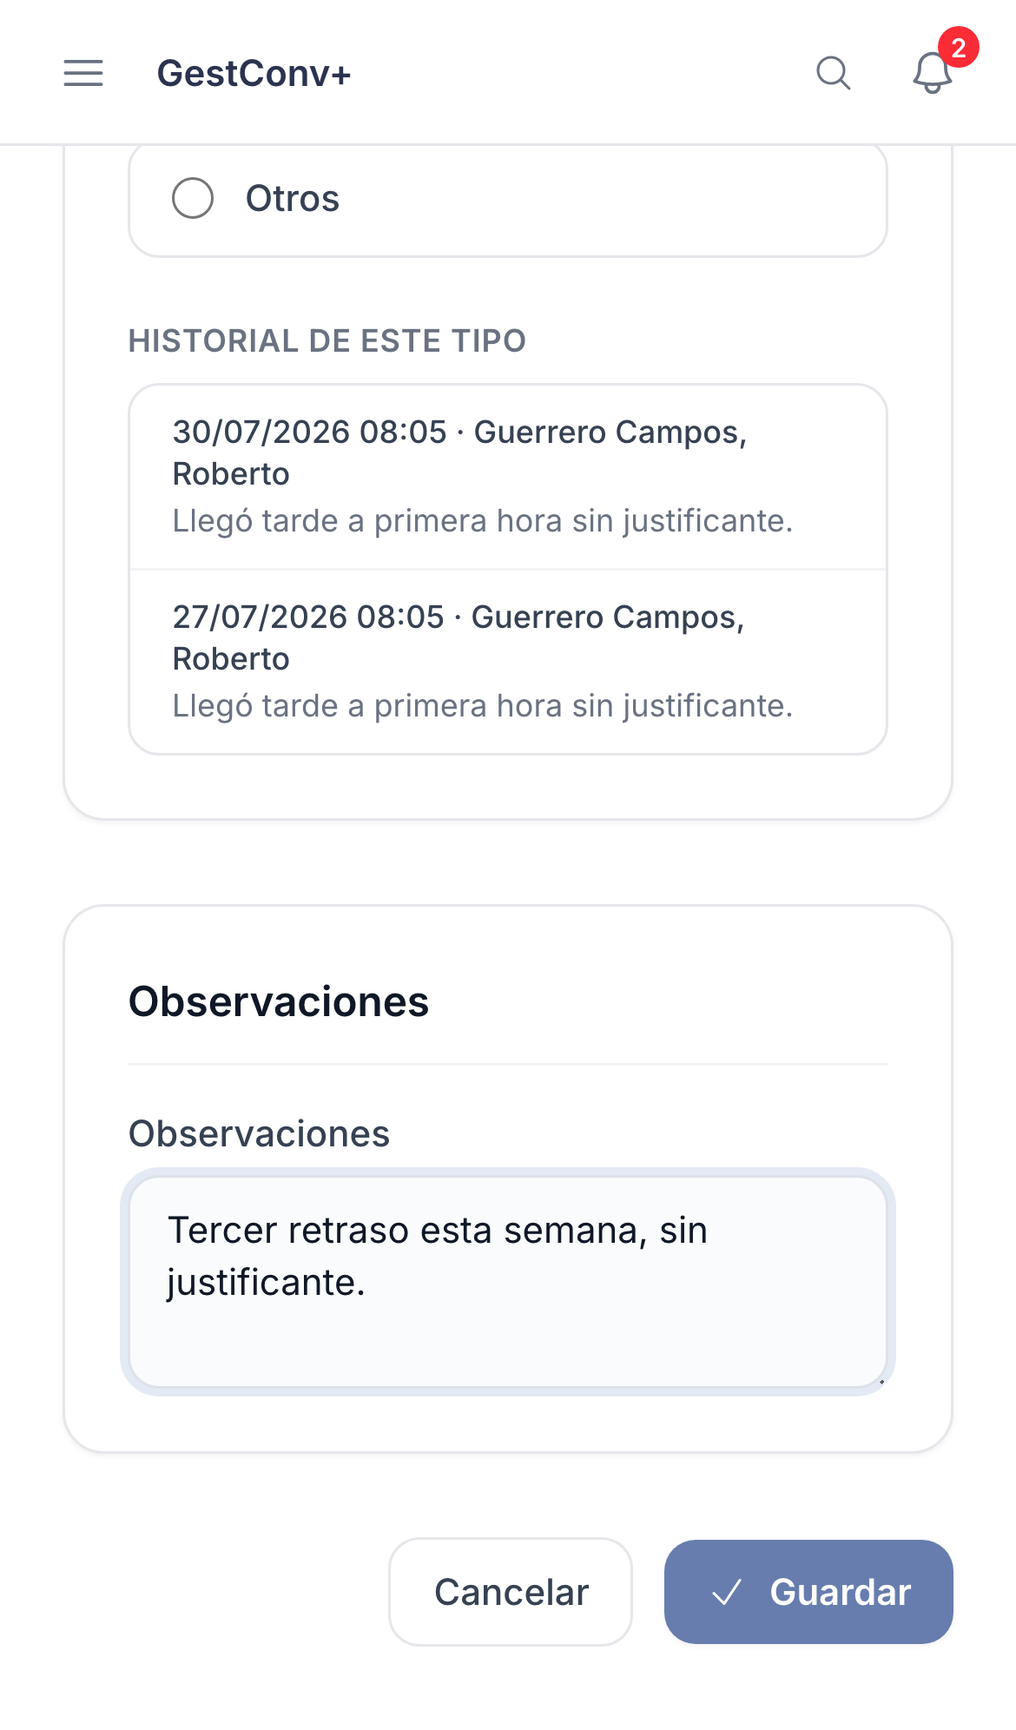
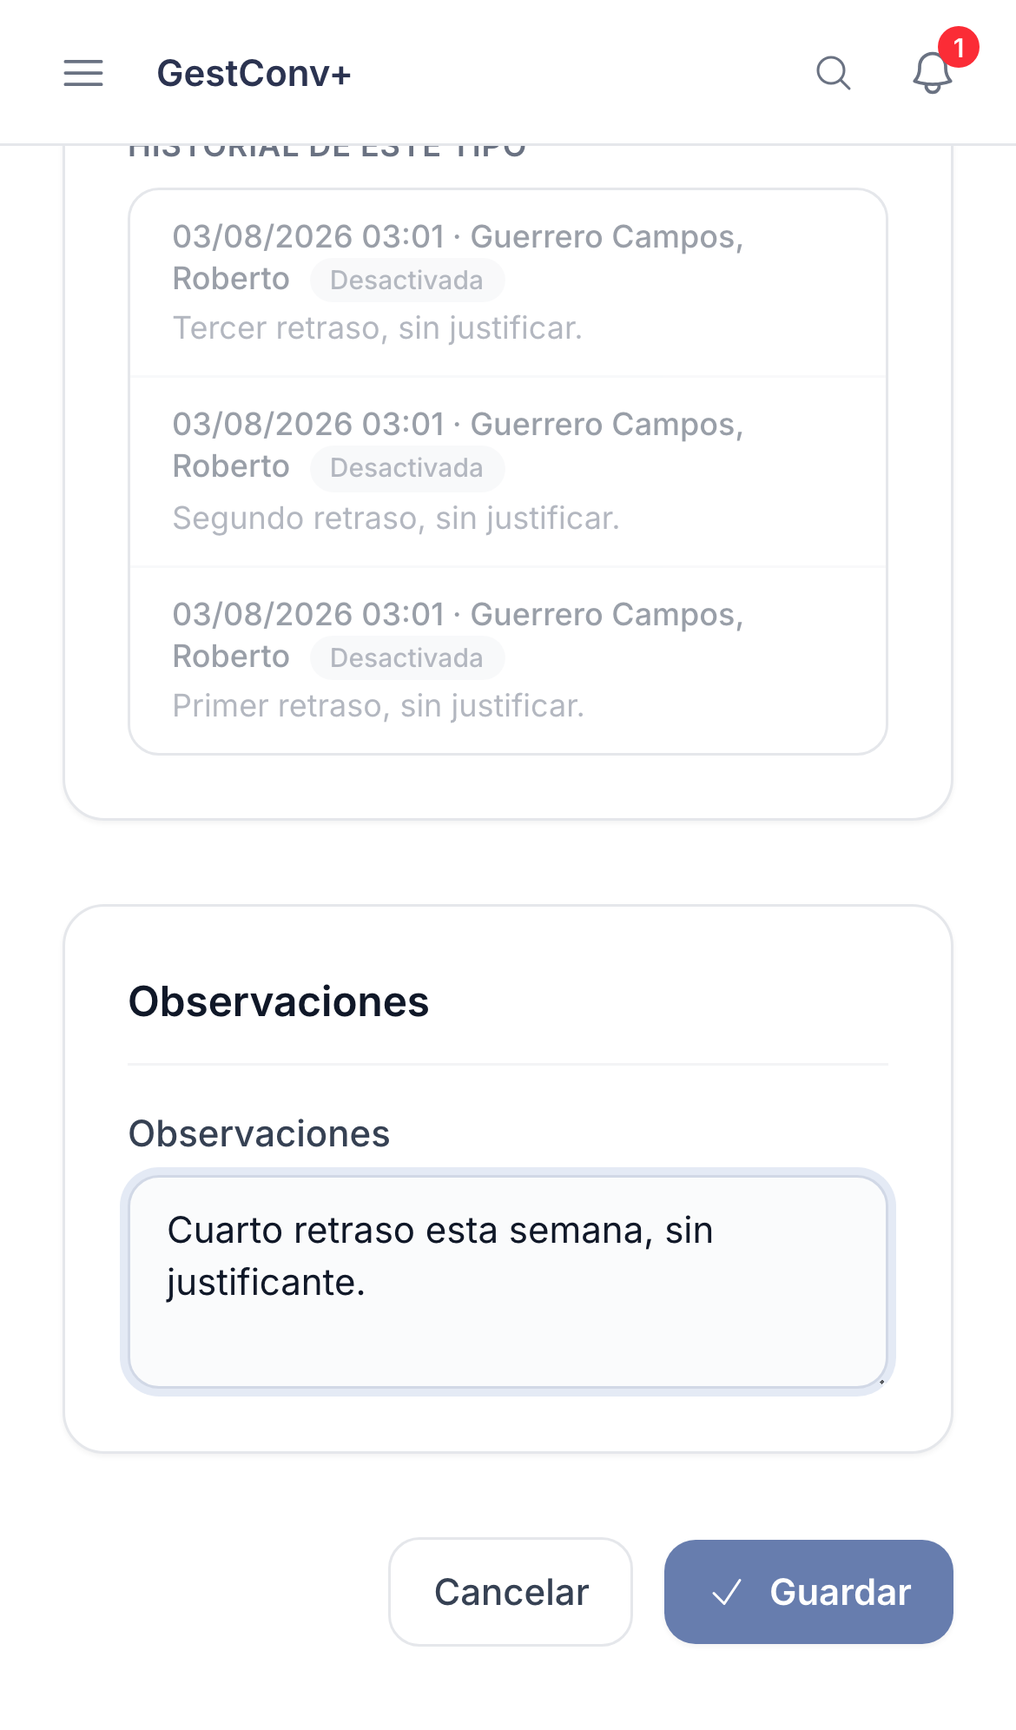
docs(notas): documenta el flujo de registro de parte por umbral y la desactivación de notas
Actualiza el manual (sección Notas, catálogo de tipos, avisos por
correo), la presentación y la ficha rápida "Registrar una nota" con
la terminología desactivada/caducidad, la pestaña "Listado de
estudiantes" y el aviso de notas desactivadas al registrar un parte;
regenera las capturas afectadas y añade las dos nuevas.

diff --git a/docs/manual/03-el-trabajo-diario.md b/docs/manual/03-el-trabajo-diario.md
@@ -40,6 +40,9 @@ Debajo, las tarjetas de estadísticas:
   orientación y tutores/as: cuántas sanciones del curso tienen alguna materia de [tareas de
   sanción](#tareas-de-sancion) sin cumplimentar. Enlaza al listado de sanciones con el filtro
   correspondiente ya aplicado.
+- **Notas que implican parte** — visible para administradores y tutores/as: cuántos estudiantes
+  han alcanzado el umbral de ocurrencias de un tipo de nota activa. Enlaza a la pestaña
+  [Listado de estudiantes](#listado-de-estudiantes) de la sección Notas.
 
 A continuación, las **sanciones en vigor en tus grupos** de esta semana y la próxima, visible para
 quien imparte materia en algún grupo.
@@ -157,9 +160,16 @@ permiso para notificarlo ve también un botón **Notificar** junto a los de edit
 
 La sección **Notas** del menú lateral permite registrar avisos de comportamiento del día a día
 (un retraso, salir al baño, usar el móvil en clase…) sin necesidad de abrir un parte de
-convivencia formal. Cada tipo de nota tiene un umbral de ocurrencias configurable por el centro
-(ver [Tipos de notas diarias](06-administrar-el-centro.md#tipos-de-notas-diarias)); al superarlo,
-la aplicación avisa de que conviene registrar también un parte.
+convivencia formal. Cada tipo de nota tiene un umbral de ocurrencias configurable por el centro y
+una caducidad opcional (ver [Tipos de notas diarias](06-administrar-el-centro.md#tipos-de-notas-diarias)).
+
+!!! note "Quién registra el parte al alcanzar el umbral"
+    Cuando un estudiante alcanza el umbral de un tipo de nota, no es cualquier docente quien debe
+    registrar el parte de convivencia derivado, sino el tutor/a de su grupo o administración. Por
+    eso este aviso no aparece ni en el formulario de alta de una nota ni en la ficha del alumno:
+    se gestiona desde la pestaña **Listado de estudiantes** de esta misma sección (ver más abajo),
+    y opcionalmente por correo electrónico (ver
+    [Avisos por correo](07-administrar-la-plataforma.md#avisos-por-correo)).
 
 ### Registrar una nota nueva
 
@@ -172,15 +182,14 @@ la aplicación avisa de que conviene registrar también un parte.
 3. **Tipo de nota** — elige uno de los tipos activos del centro. Los tipos que, de añadir esta
    nota, alcanzarían el umbral de ocurrencias que dan lugar a parte se muestran resaltados en
    rojo. Al elegir un tipo aparece, sin recargar la página, el historial de ese tipo para el
-   estudiante seleccionado (fecha/hora, docente y observaciones; las notas ya ignoradas se ven
+   estudiante seleccionado (fecha/hora, docente y observaciones; las notas ya desactivadas se ven
    atenuadas).
 
    ![Tipo de nota resaltado en rojo con el historial del estudiante](img/notas/nueva-nota-tipo-historial.png)
 
 4. **Observaciones** — campo de texto libre, opcional.
-5. Pulsa **Guardar**. La pantalla de resumen muestra los datos de la nota y, si con ella se
-   alcanza o se supera el umbral del tipo elegido, un botón destacado para registrar un parte de
-   convivencia para ese mismo estudiante.
+5. Pulsa **Guardar**. La pantalla de resumen muestra los datos de la nota y, si el tipo tiene
+   umbral configurado, cuántas ocurrencias lleva el estudiante sobre el total.
 
 > La fecha y hora de la nota se registran automáticamente en el momento de guardarla, y no se
 > pueden elegir manualmente.
@@ -188,25 +197,50 @@ la aplicación avisa de que conviene registrar también un parte.
 Si accedes como administrador y no impartes clase en el curso académico activo, el campo de
 docente aparece vacío para obligar a elegir a quién corresponde la nota, igual que en los partes.
 
-### Listado, filtros e historial del estudiante
+### Listado de notas
 
-![Listado de notas con una fila ignorada mostrada en gris](img/notas/notas-listado.png)
+![Listado de notas con una fila desactivada mostrada en gris](img/notas/notas-listado.png)
 
-El listado admite búsqueda libre (estudiante, docente u observaciones), filtro por grupo (solo se
-listan los que tienen notas) y por tipo. Cada docente ve, como mínimo, sus propias notas y las de
-los grupos que tutoriza; solo los administradores ven todas. Quien tutoriza algún grupo dispone
-además de los botones **Mis notas** y **De mi tutoría** para acotar la vista.
+La pestaña **Listado de notas** admite búsqueda libre (estudiante, docente u observaciones),
+filtro por grupo (solo se listan los que tienen notas) y por tipo. Cada docente ve, como mínimo,
+sus propias notas y las de los grupos que tutoriza; solo los administradores ven todas. Quien
+tutoriza algún grupo dispone además de los botones **Mis notas** y **De mi tutoría** para acotar
+la vista.
 
 Puedes editar el texto de tus propias observaciones o eliminar una nota propia durante los 30
 minutos posteriores a su registro. Pasado ese tiempo, solo un administrador puede modificarla o
 eliminarla. Los tutores del grupo del estudiante pueden además marcar cualquier nota como
-**ignorada**, para que deje de contar en el umbral sin borrar el registro.
+**desactivada**, para que deje de contar en el umbral sin borrar el registro. Una nota también se
+desactiva sola, de forma automática, si su tipo tiene configurada una caducidad y pasan esos días
+desde su registro.
 
 La [ficha del estudiante](#ficha-del-estudiante) muestra también un histórico paginado de sus
-notas y las ocurrencias acumuladas por tipo, con accesos directos para registrar un parte o, para
-tutores y administradores, ignorar de golpe todas las notas actuales de un tipo.
+notas y las ocurrencias acumuladas por tipo.
 
 ![Bloque de notas diarias en la ficha del estudiante, con estadísticas por tipo](img/notas/ficha-notas.png)
+
+### Listado de estudiantes
+
+La pestaña **Listado de estudiantes**, visible solo para quien tutoriza algún grupo o es
+administrador/a de centro, reúne en una tabla a los estudiantes con notas de un tipo elegido con
+los radio buttons de la parte superior, con una fila por cada combinación de estudiante y grupo.
+Admite los mismos filtros de búsqueda y grupo que el listado de notas. Cada fila muestra cuántas
+notas de ese tipo están activas, cuántas desactivadas, y el rango de fechas de las activas; se
+resalta en rojo si el número de activas alcanza o supera el umbral del tipo, y en gris si todas
+sus notas de ese tipo están ya desactivadas.
+
+![Listado de estudiantes con una fila resaltada en rojo por alcanzar el umbral](img/notas/notas-estudiantes.png)
+
+Dos botones por fila:
+
+- **Desactivar todo** — desactiva de golpe todas las notas activas de ese tipo para ese
+  estudiante, con confirmación previa.
+- **Registrar parte** — abre el formulario de un parte nuevo con el estudiante y el grupo ya
+  fijados (no se pueden cambiar). Al guardarlo, se desactivan automáticamente **todas** las notas
+  activas del estudiante, de cualquier tipo, y la pantalla de éxito indica cuántas se han
+  desactivado.
+
+![Aviso de notas desactivadas en la pantalla de éxito al registrar un parte](img/notas/parte-notas-desactivadas.png)
 
 ## Notificaciones
 
@@ -219,7 +253,10 @@ notificaciones**, con todas las comunicaciones registradas en el curso activo.
 Los mismos partes y sanciones pendientes de notificar, junto con las [tareas de
 sanción](#tareas-de-sancion) propias todavía sin cumplimentar, aparecen también en la campana
 **Tareas pendientes** de la cabecera, ordenados por antigüedad. Cada elemento enlaza directamente
-a su pantalla de registro o de cumplimentación.
+a su pantalla de registro o de cumplimentación. Quien tutoriza algún grupo o es administrador/a
+también ve ahí, y en la tarjeta **Notas que implican parte** del [panel de inicio](#la-pantalla-de-inicio),
+los estudiantes que han alcanzado el umbral de un tipo de nota (ver
+[Listado de estudiantes](#listado-de-estudiantes)).
 
 Antes de las colas de partes y sanciones, la pestaña muestra los **estudiantes con partes
 pendientes de notificar** (solo los que el docente puede notificar), ordenados de más a menos

diff --git a/CHANGELOG.md b/CHANGELOG.md
@@ -21,11 +21,13 @@ and this project adheres to [Semantic Versioning](https://semver.org/spec/v2.0.0
 ### Added
 
 - Nueva sección **Notas**, para registrar y gestionar avisos de comportamiento del día a día (retraso, salida al baño, uso del móvil…) sin necesidad de un parte de convivencia formal:
-  - Catálogo de **tipos de nota**, administrable por centro en **Centro educativo › Tipos de notas diarias** (nombre, reordenar, activar/desactivar, exportar/importar en JSON), con un umbral configurable de **ocurrencias que dan lugar a parte** por tipo (0 = nunca). Los centros ya existentes reciben automáticamente los 4 tipos iniciales (Salida al baño: 0, Uso del móvil: 2, Retraso: 3, Otros: 0); los centros nuevos los reciben igual que el resto de catálogos por defecto.
-  - Al registrar una nota nueva, los tipos se muestran como opciones y se resaltan en rojo aquellos que, de añadirse un nuevo aviso, alcanzarían el umbral; al elegir un tipo, se muestra sin recargar la página el historial de ese tipo para el estudiante seleccionado (fecha/hora, docente y observaciones, con las notas ignoradas atenuadas). Si un administrador registra la nota y no es docente del curso activo, el campo de docente se deja en blanco para forzar una selección válida, igual que en los partes. Tras guardar, la pantalla de resumen muestra un botón para registrar un parte si se ha alcanzado el umbral.
-  - El listado de notas admite búsqueda, filtro por grupo (solo los que tienen avisos) y por tipo, y los botones **Mis notas** y, si se tutoriza algún grupo, **De mi tutoría**. La visibilidad sigue el mismo criterio que los partes: cada docente ve las suyas y las de los grupos que tutoriza; solo los administradores ven todas.
-  - Un docente puede editar las observaciones o eliminar sus propias notas durante los 30 minutos posteriores al registro; los tutores del grupo del estudiante pueden marcar cualquier aviso como ignorado (no cuenta para el umbral); los administradores pueden modificar o eliminar cualquier nota sin límite de tiempo.
-  - La ficha del alumno muestra ahora, justo antes del historial de convivencia, un histórico paginado de notas diarias y, tras él, las ocurrencias acumuladas por tipo con un botón **Registrar parte** cuando se alcanza el umbral y, para tutores y administradores, **Ignorar notas actuales** para descartar de golpe todas las de un tipo. El botón **Nueva nota** aparece junto al de **Nuevo parte**, tanto en la ficha del alumno como entre los accesos rápidos del panel de inicio.
+  - Catálogo de **tipos de nota**, administrable por centro en **Centro educativo › Tipos de notas diarias** (nombre, reordenar, activar/desactivar, exportar/importar en JSON), con un umbral configurable de **ocurrencias que dan lugar a parte** por tipo (0 = nunca) y una **caducidad** en días (0 = no caduca nunca); pasados esos días desde su registro, una nota activa se desactiva sola mediante una tarea programada diaria. Los centros ya existentes reciben automáticamente los 4 tipos iniciales (Salida al baño: 0 ocurrencias/no caduca, Uso del móvil: 2/30 días, Retraso a primera hora: 3/no caduca, Otros: 0/no caduca); los centros nuevos los reciben igual que el resto de catálogos por defecto.
+  - Al registrar una nota nueva, los tipos se muestran como opciones y se resaltan en rojo aquellos que, de añadirse un nuevo aviso, alcanzarían el umbral; al elegir un tipo, se muestra sin recargar la página el historial de ese tipo para el estudiante seleccionado (fecha/hora, docente y observaciones, con las notas desactivadas atenuadas). Si un administrador registra la nota y no es docente del curso activo, el campo de docente se deja en blanco para forzar una selección válida, igual que en los partes. Tras guardar, la pantalla de resumen muestra cuántas ocurrencias lleva el estudiante de ese tipo.
+  - La pestaña **Listado de notas** admite búsqueda, filtro por grupo (solo los que tienen avisos) y por tipo, y los botones **Mis notas** y, si se tutoriza algún grupo, **De mi tutoría**. La visibilidad sigue el mismo criterio que los partes: cada docente ve las suyas y las de los grupos que tutoriza; solo los administradores ven todas.
+  - Un docente puede editar las observaciones o eliminar sus propias notas durante los 30 minutos posteriores al registro; los tutores del grupo del estudiante pueden marcar cualquier aviso como **desactivado** (no cuenta para el umbral); los administradores pueden modificar o eliminar cualquier nota sin límite de tiempo.
+  - La ficha del alumno muestra, justo antes del historial de convivencia, un histórico paginado de notas diarias y, tras él, las ocurrencias acumuladas por tipo. El botón **Nueva nota** aparece junto al de **Nuevo parte**, tanto en la ficha del alumno como entre los accesos rápidos del panel de inicio.
+  - Nueva pestaña **Listado de estudiantes** (solo para quien tutoriza algún grupo o es administrador/a de centro): una fila por estudiante y grupo con notas del tipo elegido con radio buttons, con el número de notas activas/desactivadas y el rango de fechas de las activas; resaltada en rojo si se alcanza el umbral y en gris si todas las notas de ese tipo están desactivadas. Dos botones por fila: **Desactivar todo** (con confirmación) y **Registrar parte**, que abre el alta de un parte con el estudiante y el grupo ya fijados y, al guardarlo, desactiva automáticamente todas las notas activas del estudiante (de cualquier tipo), indicando cuántas en la pantalla de éxito. Con esto, quien decide registrar el parte al alcanzar el umbral es el tutor/a del grupo o administración, no cualquier docente.
+  - Nuevo ajuste de correo **Nota que implica registro de parte** (nadie / tutor de grupo / equipo directivo / ambos), que avisa la primera vez que un estudiante alcanza o supera el umbral de un tipo, con el detalle completo de las notas activas de ese tipo. La campana de notificaciones y una nueva tarjeta **Notas que implican parte** del panel de inicio muestran también estos estudiantes a quien tutoriza su grupo o es administrador/a.
 - La **búsqueda global** (⌘K/Ctrl+K) muestra ahora el grupo de cada estudiante encontrado, y separa los resultados entre **Tu alumnado** (a quienes se imparte clase o se tutoriza) y **Otro alumnado**: antes esta búsqueda solo devolvía el propio alumnado y ocultaba por completo al resto.
 - La **ficha del estudiante** es ahora accesible para cualquier docente del centro, no solo para quien lo tutoriza, le da clase o ha registrado algo suyo: quien no tiene ninguna de esas relaciones con el estudiante ve una versión reducida, sin contadores, datos de contacto ni historial de convivencia, con solo las notas diarias y los accesos directos para registrar un parte o una nota.
 - La campana **Tareas pendientes** de la cabecera muestra ahora también las [tareas de sanción](docs/manual/03-el-trabajo-diario.md#tareas-de-sancion) propias todavía sin cumplimentar, junto a los partes y sanciones pendientes de notificar que ya mostraba; cada una enlaza directamente a su formulario.

diff --git a/docs/manual/07-administrar-la-plataforma.md b/docs/manual/07-administrar-la-plataforma.md
@@ -230,6 +230,7 @@ que no está asociado a ningún centro. Un valor de 0 desactiva esta eliminació
 | Parte incorporado a una sanción | A nadie / Al docente que lo registró / Al tutor/a de grupo / A ambos | A nadie |
 | Sanción notificada a la familia | A nadie / A los docentes de los partes / Al tutor/a de grupo / A ambos | A nadie |
 | Parte sancionable (comisión de convivencia) | A nadie / A la comisión de convivencia | A nadie |
+| Nota que implica registro de parte | A nadie / Al tutor/a de grupo / Al equipo directivo / A ambos | A nadie |
 | Enviar parte adjunto al correo | Sí / No | No |
 | Enviar sanción adjunta al correo | Sí / No | No |
 | Tareas de sanción asignadas | Sí / No | Sí |
@@ -237,10 +238,13 @@ que no está asociado a ningún centro. Un valor de 0 desactiva esta eliminació
 Uno por cada evento de un parte o una sanción; determinan si se envía un correo y a quién. El
 aviso de parte modificado no se dispara al marcar un parte como prescrito, que tiene su propio
 ajuste independiente, y el aviso a la comisión de convivencia solo se envía cuando un parte queda
-notificado a la familia y todavía puede ser sancionado. Los dos ajustes de adjuntar PDF al correo
-adjuntan el PDF del parte o de la sanción a los correos anteriores. Ninguno tiene ámbito de docente: se fijan a
-nivel global o de centro. Salvo el último, todos están desactivados por defecto. El detalle de
-cada aviso está en
+notificado a la familia y todavía puede ser sancionado. El aviso de **nota que implica registro de
+parte** se envía la primera vez que un estudiante alcanza o supera el umbral de un tipo de
+[nota diaria](03-el-trabajo-diario.md#notas) activa; si se sigue por encima del umbral con notas
+nuevas no se repite, y el correo incluye el detalle completo de las notas activas de ese tipo. Los
+dos ajustes de adjuntar PDF al correo adjuntan el PDF del parte o de la sanción a los correos
+anteriores. Ninguno tiene ámbito de docente: se fijan a nivel global o de centro. Salvo el último,
+todos están desactivados por defecto. El detalle de cada aviso está en
 [Avisos de partes y sanciones](06-administrar-el-centro.md#avisos-de-partes-y-sanciones).
 
 **Tareas de sanción asignadas**, a diferencia de los anteriores, está **activado por defecto**: en

diff --git a/docs/slides/gestconv-plus.md b/docs/slides/gestconv-plus.md
@@ -155,13 +155,15 @@ incidente los afecta conjuntamente.
 - Sección **Notas**, para incidencias menores del día a día: retraso, salida
   al baño, uso del móvil…
 - Cada **tipo de nota** tiene un umbral de ocurrencias que, al alcanzarse, se
-  resalta en rojo y sugiere abrir un parte de convivencia.
+  resalta en rojo, y una caducidad opcional tras la que se desactiva sola.
 - Al elegir el tipo se muestra al instante el **historial** de ese tipo para
   el estudiante, sin recargar la página.
 - Puedes editar o eliminar tus propias notas durante los **30 minutos**
   posteriores al registro.
 - La ficha del estudiante muestra el histórico y las ocurrencias acumuladas
-  por tipo, con acceso directo para registrar el parte si corresponde.
+  por tipo, sin más — quien registra el parte al alcanzar el umbral es el
+  tutor/a del grupo o administración, desde la pestaña **Listado de
+  estudiantes**, no cualquier docente.
 
 ---
 
@@ -374,6 +376,8 @@ completa de su grupo**, no solo de los partes que él mismo registra:
   - Partes o sanciones **todavía sin notificar** a la familia.
   - Sanciones de su grupo con alguna **tarea de sanción sin cumplimentar**
     (ver siguiente diapositiva).
+  - Estudiantes de su grupo que han **alcanzado el umbral** de un tipo de
+    nota diaria activa, y a los que por tanto hay que registrarles un parte.
 - Estos avisos aparecen tanto en el **panel de inicio** como en la campana de
   notificaciones, para no perder de vista lo urgente.
 
@@ -653,9 +657,10 @@ está disponible para un docente normal, para el tutor/a, o para ambos.
 - Catálogo por centro, igual que métodos de comunicación: nombre, activar,
   desactivar, reordenar.
 - Cada tipo tiene un umbral de **ocurrencias que dan lugar a parte** (0 =
-  nunca lo sugiere).
-- 4 tipos por defecto: **Salida al baño** (0), **Uso del móvil** (2),
-  **Retraso** (3) y **Otros** (0).
+  nunca lo sugiere) y una **caducidad** en días (0 = no caduca nunca).
+- 4 tipos por defecto: **Salida al baño** (0, no caduca), **Uso del móvil**
+  (2, caduca a los 30 días), **Retraso a primera hora** (3, no caduca) y
+  **Otros** (0, no caduca).
 - Exportable e importable en JSON, igual que el resto de catálogos del
   centro.
 

diff --git a/docs/cheatsheets/registrar-nota.md b/docs/cheatsheets/registrar-nota.md
@@ -49,13 +49,13 @@ footer: 'v{{VERSION}} ({{PUB_DATE}}) · GestConv+'
 <div class="step">
   <span class="num">5</span>
   <div class="text">
-    <p>Si se alcanza el umbral, la confirmación muestra un botón grande para <strong>registrar un parte</strong>.</p>
-    <img src="img/registrar-nota-5.png" alt="Confirmación con botón para registrar un parte">
+    <p>La confirmación muestra cuántas ocurrencias lleva el estudiante de ese tipo. Si se alcanza el umbral, el tutor/a del grupo o administración se encargan de registrar el parte desde el <strong>Listado de estudiantes</strong>.</p>
+    <img src="img/registrar-nota-5.png" alt="Confirmación con el recuento de ocurrencias del tipo">
   </div>
 </div>
 
 </div>
 
 <div class="nota">
-  <p>Puedes editar las observaciones o eliminar tus propias notas durante los 30 minutos siguientes al registro. Pasado ese tiempo, solo un administrador puede modificarlas. Los tutores del grupo pueden marcar cualquier nota como <strong>ignorada</strong> para que deje de contar en el umbral.</p>
+  <p>Puedes editar las observaciones o eliminar tus propias notas durante los 30 minutos siguientes al registro. Pasado ese tiempo, solo un administrador puede modificarlas. Los tutores del grupo pueden marcar cualquier nota como <strong>desactivada</strong> para que deje de contar en el umbral, y una nota también se desactiva sola si su tipo tiene caducidad configurada.</p>
 </div>

diff --git a/docs/manual/06-administrar-el-centro.md b/docs/manual/06-administrar-el-centro.md
@@ -178,10 +178,13 @@ desactívalo en su lugar.
 ### Tipos de notas diarias
 
 En **Centro educativo › Tipos de notas diarias** se configura la lista —plana, sin categorías— de
-tipos disponibles al [registrar una nota](03-el-trabajo-diario.md#notas), con un campo adicional
-por tipo: **Ocurrencias que dan lugar a parte** (0 = este tipo nunca lo sugiere). Los 4 tipos por
-defecto son: Salida al baño (0), Uso del móvil (2), Retraso (3) y Otros (0); los centros que ya
-existían antes de esta funcionalidad los reciben automáticamente al actualizar.
+tipos disponibles al [registrar una nota](03-el-trabajo-diario.md#notas), con dos campos
+adicionales por tipo: **Ocurrencias que dan lugar a parte** (0 = este tipo nunca lo sugiere) y
+**Caducidad**, en días desde el registro, pasados los cuales una nota activa de ese tipo se
+desactiva automáticamente (0 = no caduca nunca). Los 4 tipos por defecto son: Salida al baño (0
+ocurrencias, no caduca), Uso del móvil (2 ocurrencias, caduca a los 30 días), Retraso a primera
+hora (3 ocurrencias, no caduca) y Otros (0 ocurrencias, no caduca); los centros que ya existían
+antes de esta funcionalidad los reciben automáticamente al actualizar.
 
 ![Administración de tipos de notas diarias](img/notas/admin-tipos-notas.png)
 
